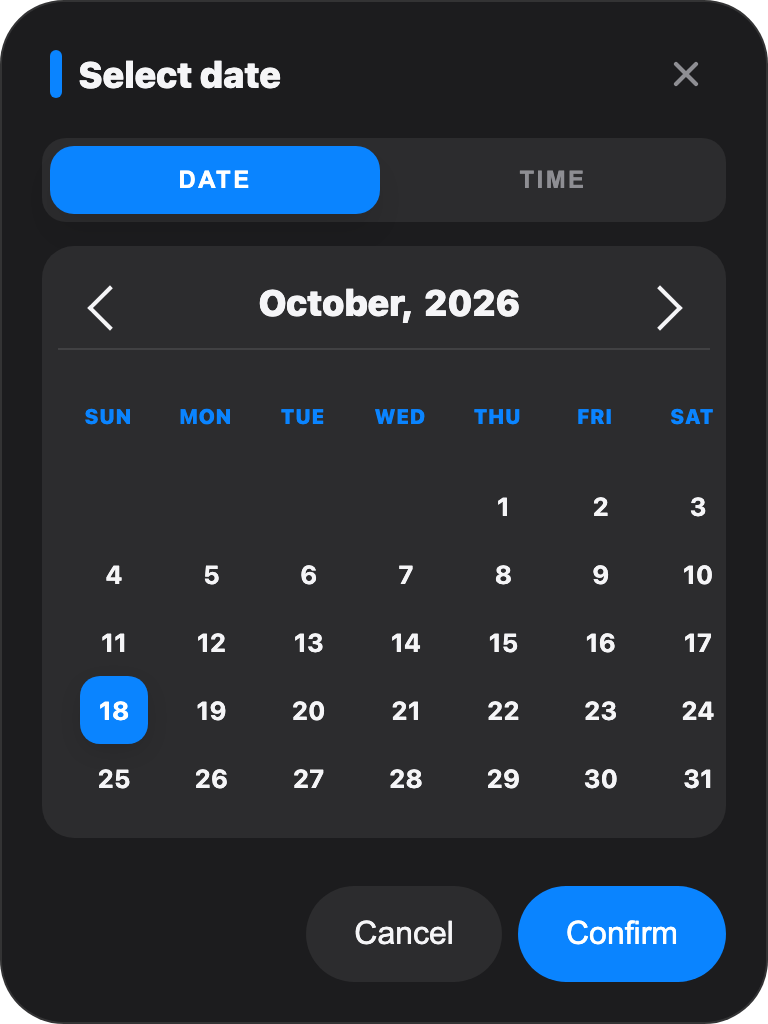
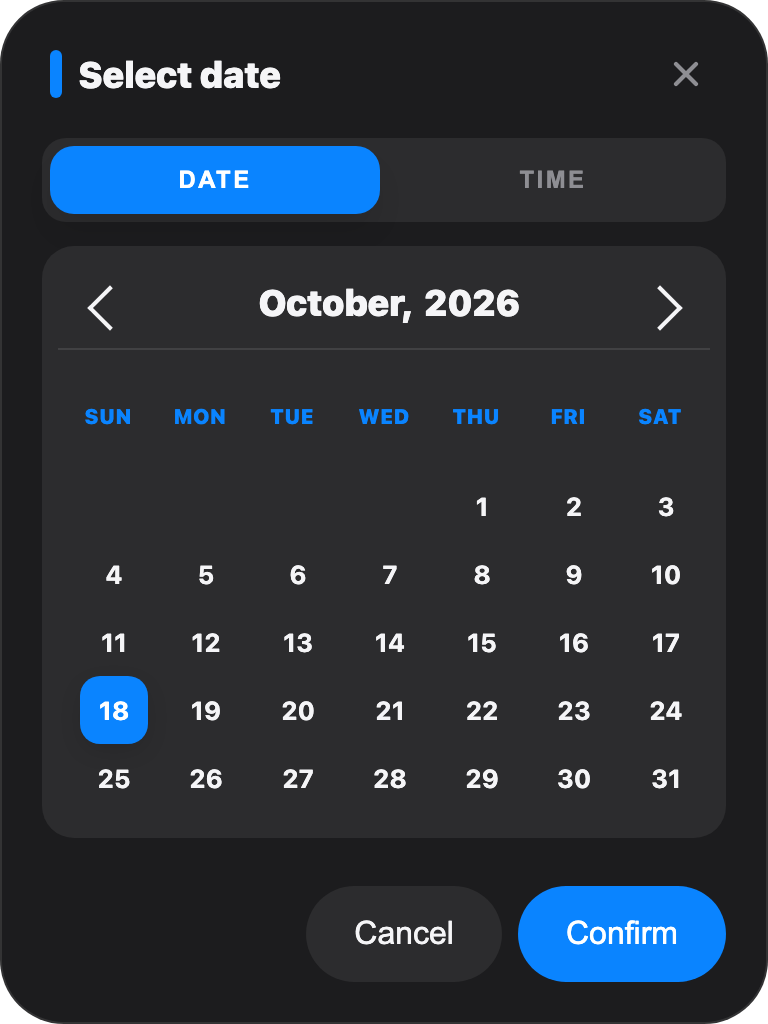
fix: v1.0.1 Last calendar column clipped
The day grid was 16px wider than the calendar, so a selected day in the
last column ran past the panel's edge. Screenshots now show the Sorani
and Kurmanji calendars first.

diff --git a/dist/styles.css b/dist/styles.css
@@ -341,7 +341,7 @@
 
   .dtp-calendar .rmdp-wrapper { background: transparent !important; border: none !important; box-shadow: none !important; width: 100% !important; }
   .dtp-calendar .rmdp-calendar { width: 100% !important; padding: 0 !important; }
-  .dtp-calendar .rmdp-day-picker { padding: 8px !important; width: 100% !important; }
+  .dtp-calendar .rmdp-day-picker { box-sizing: border-box; padding: 8px !important; width: 100% !important; }
   .dtp-calendar .rmdp-day-picker > div { width: 100% !important; }
   .dtp-calendar .rmdp-day span { color: var(--dtp-text) !important; font-size: 0.8rem !important; font-weight: 700 !important; width: 34px !important; height: 34px !important; border-radius: 10px !important; transition: all 0.2s ease !important; }
   .dtp-calendar .rmdp-header-values { color: var(--dtp-text) !important; font-weight: 900 !important; font-size: 1.125rem !important; cursor: pointer; }

diff --git a/src/styles.css b/src/styles.css
@@ -341,7 +341,7 @@
 
   .dtp-calendar .rmdp-wrapper { background: transparent !important; border: none !important; box-shadow: none !important; width: 100% !important; }
   .dtp-calendar .rmdp-calendar { width: 100% !important; padding: 0 !important; }
-  .dtp-calendar .rmdp-day-picker { padding: 8px !important; width: 100% !important; }
+  .dtp-calendar .rmdp-day-picker { box-sizing: border-box; padding: 8px !important; width: 100% !important; }
   .dtp-calendar .rmdp-day-picker > div { width: 100% !important; }
   .dtp-calendar .rmdp-day span { color: var(--dtp-text) !important; font-size: 0.8rem !important; font-weight: 700 !important; width: 34px !important; height: 34px !important; border-radius: 10px !important; transition: all 0.2s ease !important; }
   .dtp-calendar .rmdp-header-values { color: var(--dtp-text) !important; font-weight: 900 !important; font-size: 1.125rem !important; cursor: pointer; }

diff --git a/README.md b/README.md
@@ -15,7 +15,9 @@ A React date and time picker for the **Gregorian**, **Jalali** (Solar Hijri) and
 
 | | Light | Dark |
 |---|---|---|
-| Date | <img src="docs/screenshots/date-light.png" alt="Date tab, light theme" width="280"> | <img src="docs/screenshots/date-dark.png" alt="Date tab, dark theme" width="280"> |
+| Kurdish, Sorani (solar months, right to left) | <img src="docs/screenshots/ckb-light.png" alt="Sorani Kurdish calendar, light theme" width="280"> | <img src="docs/screenshots/ckb-dark.png" alt="Sorani Kurdish calendar, dark theme" width="280"> |
+| Kurdish, Kurmanji (Gregorian months, year + 700) | <img src="docs/screenshots/kmr-light.png" alt="Kurmanji Kurdish calendar, light theme" width="280"> | <img src="docs/screenshots/kmr-dark.png" alt="Kurmanji Kurdish calendar, dark theme" width="280"> |
+| Gregorian | <img src="docs/screenshots/date-light.png" alt="Date tab, light theme" width="280"> | <img src="docs/screenshots/date-dark.png" alt="Date tab, dark theme" width="280"> |
 | Time | <img src="docs/screenshots/time-light.png" alt="Time tab, light theme" width="280"> | <img src="docs/screenshots/time-dark.png" alt="Time tab, dark theme" width="280"> |
 | Jalali, right to left | <img src="docs/screenshots/jalali-light.png" alt="Jalali calendar in Persian, light theme" width="280"> | <img src="docs/screenshots/jalali-dark.png" alt="Jalali calendar in Persian, dark theme" width="280"> |
 
@@ -26,7 +28,7 @@ The dark ones use the [dark theme example](#dark-theme) below.
 Installed from a git tag on GitHub (no npm registry):
 
 ```sh
-npm install github:salahfarzin/datetimepicker#v1.0.0
+npm install github:salahfarzin/datetimepicker#v1.0.1
 ```
 
 Each tag carries the built `dist/`, so installing needs neither git nor a build step,

diff --git a/CHANGELOG.md b/CHANGELOG.md
@@ -3,6 +3,13 @@
 The format follows [Keep a Changelog](https://keepachangelog.com/en/1.1.0/); versions follow
 [SemVer](https://semver.org/).
 
+## v1.0.1 — 2026-10-18
+
+### Fixes
+
+- A selected day in the calendar's last column is no longer clipped at the panel's edge: the
+  day grid was 16px wider than the calendar (its padding came on top of `width: 100%`).
+
 ## v1.0.0 — 2026-10-18
 
 First release, extracted from the date pickers in rawej and the psychometrist dashboard so
